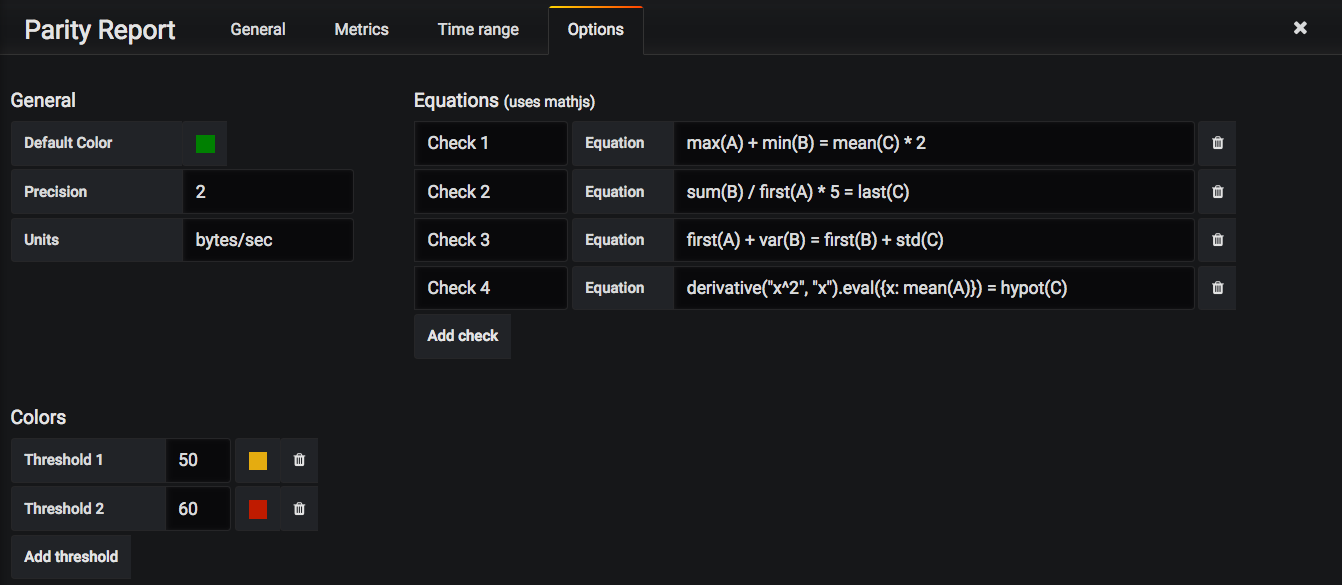
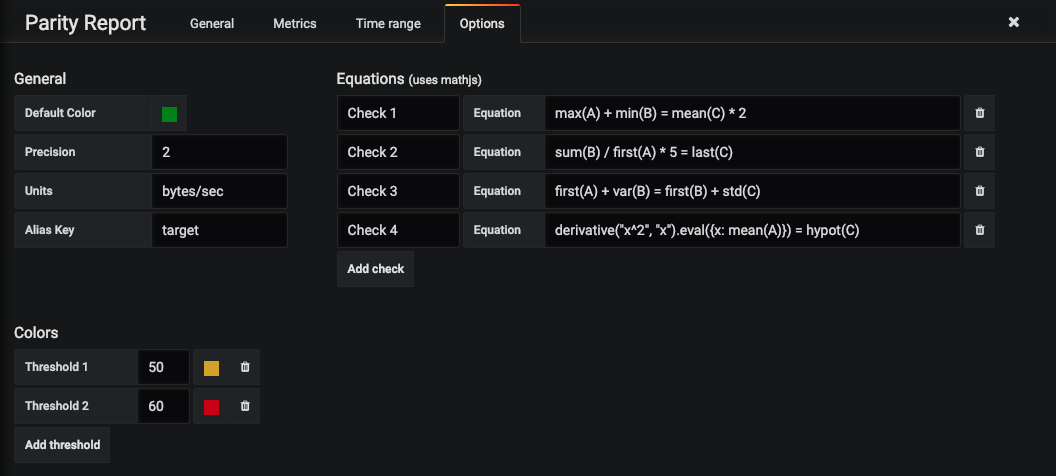
Update readme and options screenshot

diff --git a/README.md b/README.md
@@ -24,6 +24,30 @@ Each of these functions takes an alias name genereated by the 'alias()' graphite
 
     alias(test.network.toplevel.traffic.outgoing.route2.rate, 'C')
 
+By default the plugin looks for "target" as the key in the JSON response but it can be changed through the Alias Key field under the options tab. The JSON response from the datasource should be of the following format (with "target" or some other key specified through Alias Key field)
+
+```
+[
+  {
+    "target":"A",
+    "datapoints":[
+      [100,1450754160000],
+      [102,1450754210000],
+      ...
+    ]
+  },
+  {
+    "target":"B",
+    "datapoints":[
+      [50,1450754160000],
+      [52,1450754210000],
+      ...
+    ]
+  },
+  ...
+]
+```
+
 These queries can then be used in the custom checks expressed as equations and referred by their aliases A, B and C.
 
 ![Parity Report Options Tab](https://raw.githubusercontent.com/zuburqan/grafana-parity-report/master/src/img/parity_report_options.png)

diff --git a/dist/README.md b/dist/README.md
@@ -24,6 +24,30 @@ Each of these functions takes an alias name genereated by the 'alias()' graphite
 
     alias(test.network.toplevel.traffic.outgoing.route2.rate, 'C')
 
+By default the plugin looks for "target" as the key in the JSON response but it can be changed through the Alias Key field under the options tab. The JSON response from the datasource should be of the following format (with "target" or some other key specified through Alias Key field)
+
+```
+[
+  {
+    "target":"A",
+    "datapoints":[
+      [100,1450754160000],
+      [102,1450754210000],
+      ...
+    ]
+  },
+  {
+    "target":"B",
+    "datapoints":[
+      [50,1450754160000],
+      [52,1450754210000],
+      ...
+    ]
+  },
+  ...
+]
+```
+
 These queries can then be used in the custom checks expressed as equations and referred by their aliases A, B and C.
 
 ![Parity Report Options Tab](https://raw.githubusercontent.com/zuburqan/grafana-parity-report/master/src/img/parity_report_options.png)
